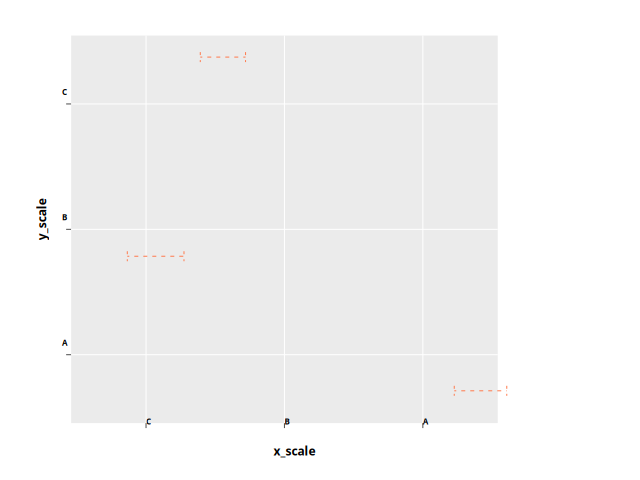
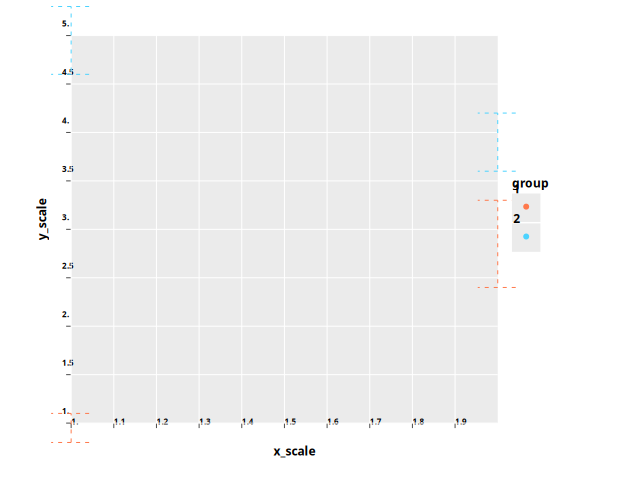
fixes for error bar

diff --git a/tests/test_plots.py b/tests/test_plots.py
@@ -6,6 +6,7 @@ from python_ggplot.public_interface.common import (
     ggdraw_plot,
     ggtitle,
     scale_x_continuous,
+    scale_y_continuous,
 )
 from python_ggplot.public_interface.geom import (
     geom_bar,
@@ -157,21 +158,20 @@ def test_geom_text():
     ggdraw_plot(res, plots_path / "geom_text.png")
 
 
-@pytest.mark.xfail(reason="incorrect plot")
+@pytest.mark.xfail(reason="needs improvements")
 def test_geom_error_bar():
     """
     this needs some further fixing
     """
-    df = pd.DataFrame(
-        data={
-            "team": ["A", "B", "C"],
-            "mean": [7.5, 23, 13.75],
-            "sd": [3.415650, 2.943920, 3.685557],
-        }
-    )
-    df = df.assign(lower=df["mean"] - df["sd"], upper=df["mean"] + df["sd"])
-    plot = ggplot(df, aes(x="team", y="mean")) + geom_error_bar(
-        aes(ymin="lower", ymax="upper")
+    df = pd.DataFrame({
+        'trt': [1, 1, 2, 2],
+        'resp': [1, 5, 3, 4],
+        'group': pd.Categorical([1, 2, 1, 2]),
+        'upper': [1.1, 5.3, 3.3, 4.2],
+        'lower': [0.8, 4.6, 2.4, 3.6]
+    })
+    plot = ggplot(df, aes(x="trt", y="resp", color="group")) + geom_error_bar(
+        aes(ymin="lower", ymax="upper"), size=20
     )
     res = ggcreate(plot)
     ggdraw_plot(res, plots_path / "geom_error_bar.png")

diff --git a/src/python_ggplot/gg/geom/base.py b/src/python_ggplot/gg/geom/base.py
@@ -390,8 +390,8 @@ class GeomErrorBarMixin:
     ):
         from python_ggplot.gg.drawing import draw_error_bar
 
-        temp = cast(FilledGeomErrorBar, fg)
-        new_error_bar = draw_error_bar(view, temp, pos, df, idx, style)
+        temp_fg = cast(FilledGeomErrorBar, fg)
+        new_error_bar = draw_error_bar(view, temp_fg, pos, df, idx, style)
         view.add_obj(new_error_bar)
 
     @property
@@ -582,6 +582,7 @@ class FilledGeomDiscrete(FilledGeomDiscreteKind):
         return DiscreteType.DISCRETE
 
 
+@dataclass
 class FilledGeomContinuous(FilledGeomDiscreteKind):
     def get_label_seq(self) -> List[GGValue]:
         raise GGException("attempt to get discrete values on continiuous kind")
@@ -613,6 +614,7 @@ class FilledGeomErrorBar(GeomErrorBarMixin, FilledGeom):
             if self.gg_data.y_col is None:
                 raise GGException("expected y_col")
             collect_cols.append(self.gg_data.y_col)
+
         if len(y_values) > 0:
             if self.gg_data.x_col is None:
                 raise GGException("expected x_col")

diff --git a/src/python_ggplot/graphics/initialize.py b/src/python_ggplot/graphics/initialize.py
@@ -510,9 +510,7 @@ def init_error_bar(data: InitErrorBarData) -> GOComposite:
             raise GGException("expected style size")
 
         if data.axis_kind == AxisKind.X:
-            scale2: Optional[Scale] = data.point.y.get_scale()
-            if scale2 is None:
-                raise GGException("expected scale")
+            scale2 = data.point.y.get_scale()
 
             local_abs: Quantity = Quantity.points(data.style.size).to_data(
                 scale=scale2, length=data.view.point_height()
@@ -536,6 +534,7 @@ def init_error_bar(data: InitErrorBarData) -> GOComposite:
 
         else:  # AxisKind.Y
             scale2 = data.point.x.get_scale()
+
             local_abs2: Quantity = Quantity.points(data.style.size).to_data(
                 scale=scale2, length=data.view.point_width()
             )

diff --git a/src/python_ggplot/public_interface/common.py b/src/python_ggplot/public_interface/common.py
@@ -253,7 +253,7 @@ def scale_x_continuous(
 
 
 def scale_y_continuous(
-    breaks: Optional[List[float]],
+    breaks: Optional[List[float]] = None,
     labels: Optional[Callable[[float], float]] = None,
     trans: Optional[Callable[[float], float]] = None,
     inv_trans: Optional[Callable[[float], float]] = None,

diff --git a/src/python_ggplot/gg/drawing.py b/src/python_ggplot/gg/drawing.py
@@ -516,7 +516,7 @@ def draw_error_bar(
             point=pos,
             error_up=error_up,
             error_down=error_down,
-            axis_kind=AxisKind.X,
+            axis_kind=AxisKind.Y,
             error_bar_kind=style.error_bar_kind,
             style=style,
         )
